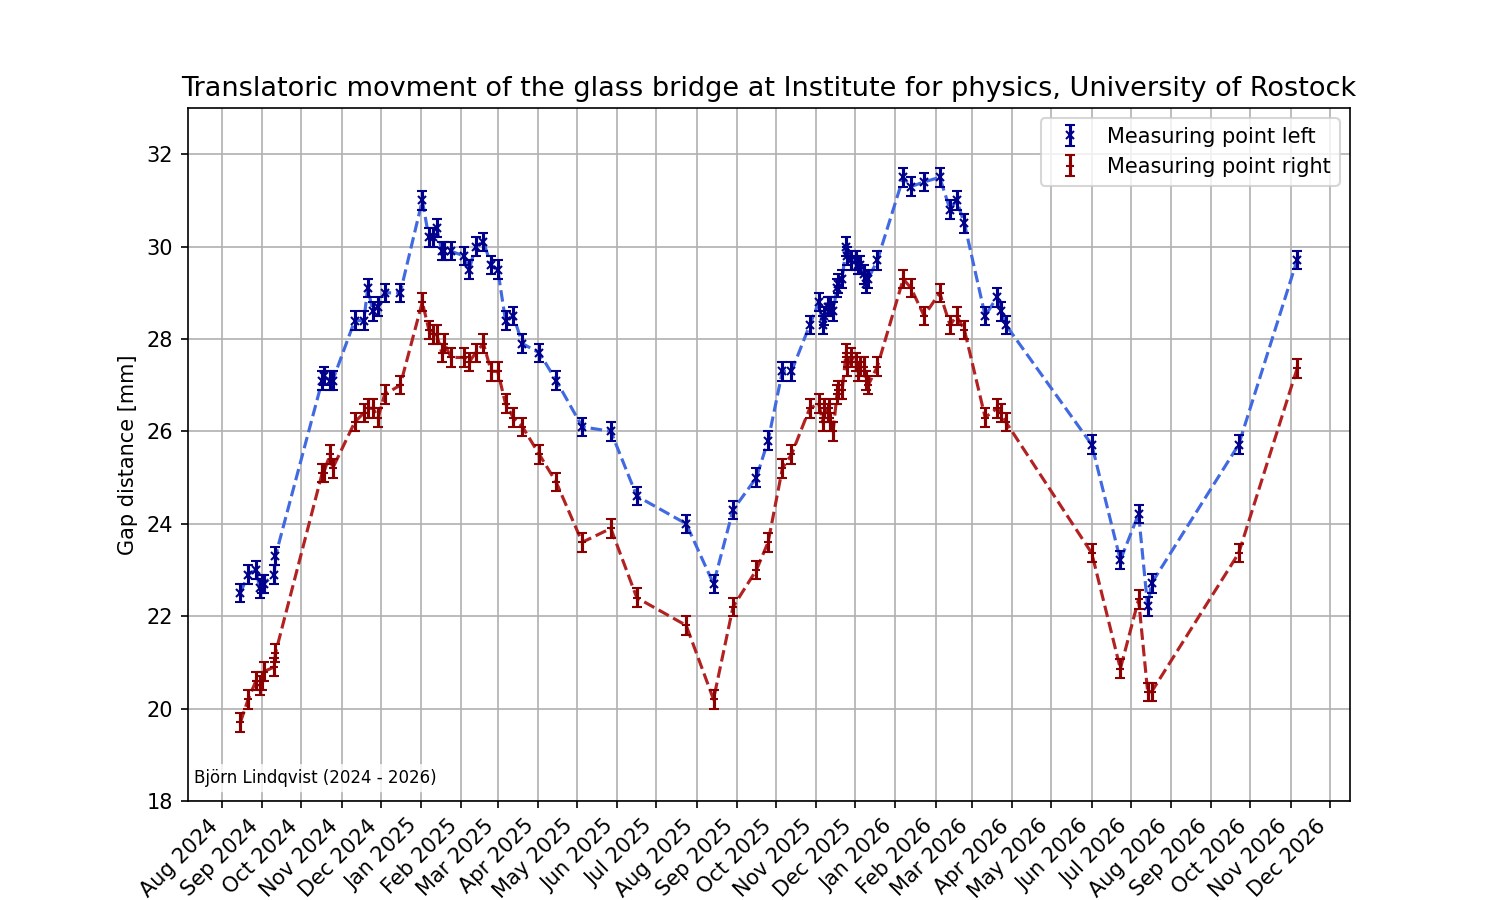
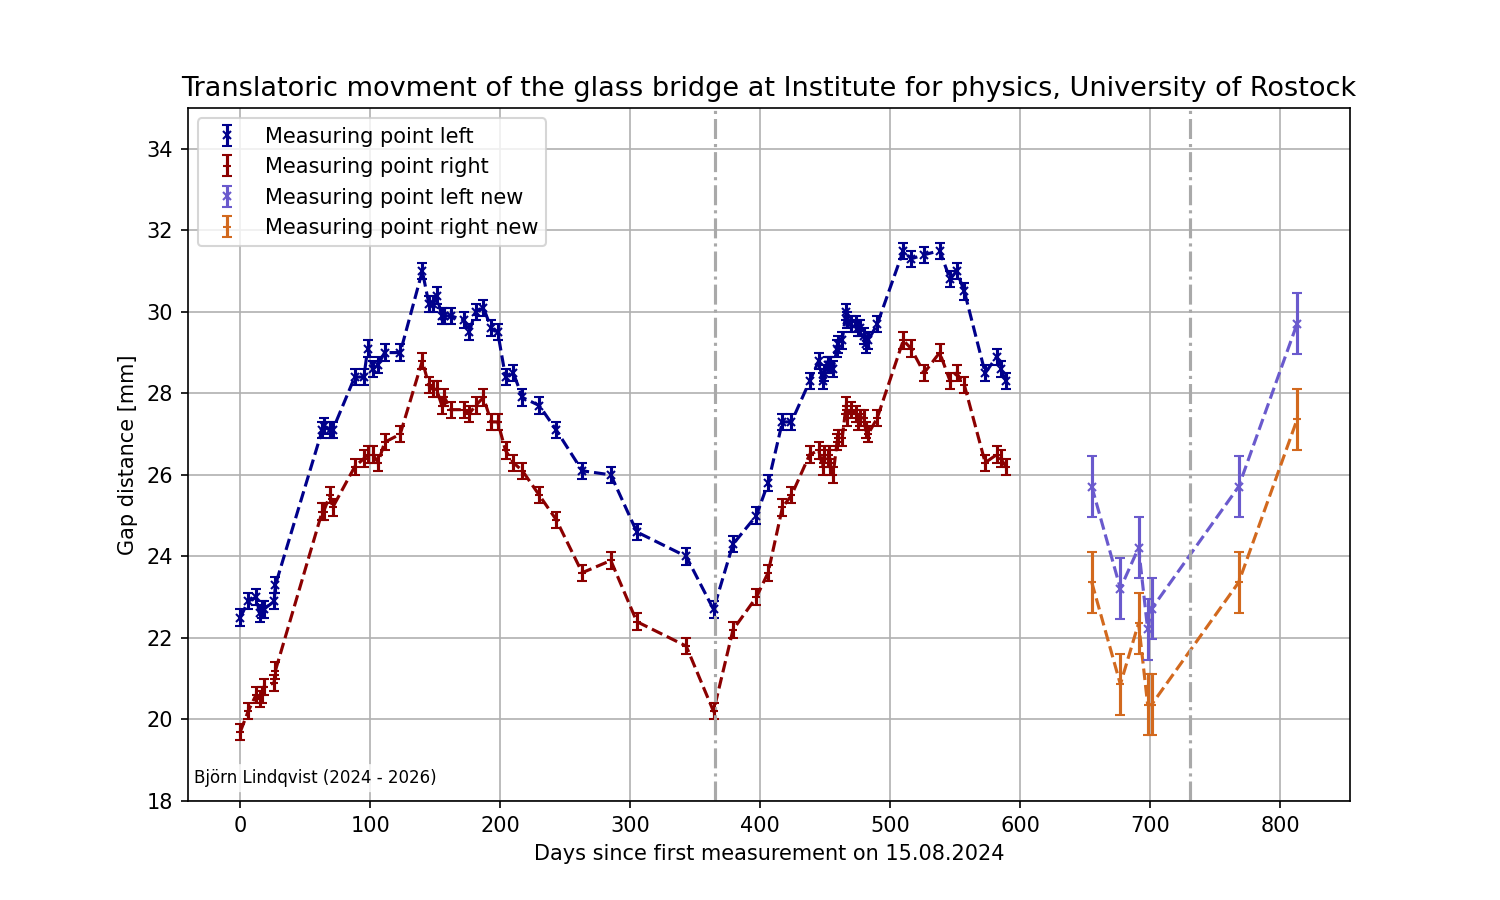
improved plot functions
- plot functions show new data in other colors to have more clearnes which data are new
- errorbars of new data are adjusted
- old function for Temp/Gap which is not flip, deleted
- minor code improvments

Changed region(s): [[0.092, 0.1244, 0.8893, 0.9956]]

diff --git a/Glasbruecke_Spalt_Main/plot_functions.py b/Glasbruecke_Spalt_Main/plot_functions.py
@@ -9,23 +9,30 @@ import numpy as np
 import matplotlib.pyplot as plt
 import matplotlib.dates as mdates
 
-def plot_time_gap(folder, time, D1, D2, delta_D, xlabel, year_start, year_end, time_style):
+def plot_time_gap(folder, time, D1, D2, D3, D4, delta_D, xlabel, year_start, year_end, time_style):
     FS = 10
     plt.figure(figsize=(10,6)) #(10,6)
     plt.grid(True)
-    plt.plot(time, D1, linestyle='--', linewidth=1.5, color='royalblue')
-    plt.plot(time, D2, linestyle='--', linewidth=1.5, color='firebrick')
+    plt.plot(time, D1, linestyle='--', linewidth=1.5, color='darkblue')
+    plt.plot(time, D2, linestyle='--', linewidth=1.5, color='darkred')
+    plt.plot(time, D3, linestyle='--', linewidth=1.5, color='slateblue')
+    plt.plot(time, D4, linestyle='--', linewidth=1.5, color='chocolate')
     plt.errorbar(time, D1, yerr=delta_D, marker='x', linestyle='None', color='darkblue', markersize=4, markeredgewidth=1, capsize=2.5, label='Measuring point left')
     plt.errorbar(time, D2, yerr=delta_D, marker='+', linestyle='None', color='darkred', markersize=4, markeredgewidth=1, capsize=2.5, label='Measuring point right')
+    plt.errorbar(time, D3, yerr=delta_D, marker='x', linestyle='None', color='slateblue', markersize=4, markeredgewidth=1, capsize=2.5, label='Measuring point left new')
+    plt.errorbar(time, D4, yerr=delta_D, marker='+', linestyle='None', color='chocolate', markersize=4, markeredgewidth=1, capsize=2.5, label='Measuring point right new')
     if time_style == 'days':
-        plt.axvline(x=365, label='1. year')
-    else:
+        for i in range(1, int(1000 // 365.25) + 1):
+            plt.axvline(x=365.25*i,linestyle='-.', color='darkgray')
+    elif time_style == 'time':
         plt.gca().xaxis.set_major_locator(mdates.MonthLocator())
         plt.gca().xaxis.set_major_formatter(mdates.DateFormatter('%b %Y'))
         plt.xticks(rotation=45, ha='right')
+    else: 
+        print('Wrong time_key!')
     plt.tick_params(axis='x', which='both', labelsize=FS)
     plt.tick_params(axis='y', which='both', labelsize=FS)
-    plt.ylim([18,33])
+    plt.ylim([18,35])
     plt.xlabel(xlabel, fontsize=FS)
     plt.ylabel('Gap distance [mm]', fontsize=FS)
     plt.title('Translatoric movment of the glass bridge at Institute for physics, University of Rostock', fontsize=1.3*FS)
@@ -36,19 +43,25 @@ def plot_time_gap(folder, time, D1, D2, delta_D, xlabel, year_start, year_end, t
     return None
 
 #%% sheerment over the year
-def plot_sheer(folder, time, D1, D2, delta_D, xlabel, year_start, year_end, time_style):
-    sheer = D1-D2
+def plot_sheer(folder, time, D1, D2, D3, D4, delta_D, xlabel, year_start, year_end, time_style):
+    sheer12 = D1-D2
+    sheer34 = D3-D4
     delta_sheer = delta_D + delta_D
+    
     FS = 10
     plt.figure(figsize=(10,6)) #(10,6)
     plt.grid(True)
-    plt.errorbar(time, sheer, yerr=delta_sheer, marker='+', linestyle='--', linewidth=1.5, color='green', markersize=9, markeredgewidth=2.5, capsize=5)
+    plt.errorbar(time, sheer12, yerr=delta_sheer, marker='+', linestyle='--', linewidth=1.5, color='darkgreen', markersize=9, markeredgewidth=2.5, capsize=5, label='old data')
+    plt.errorbar(time, sheer34, yerr=delta_sheer, marker='+', linestyle='--', linewidth=1.5, color='limegreen', markersize=9, markeredgewidth=2.5, capsize=5, label='new data')
     if time_style == 'days':
-        plt.axvline(x=365, label='1. year')
-    else:
+        for i in range(1, int(1000 // 365.25) + 1):
+            plt.axvline(x=365.25*i, linestyle='-.', color='darkgray')
+    elif time_style == 'time':
         plt.gca().xaxis.set_major_locator(mdates.MonthLocator())
         plt.gca().xaxis.set_major_formatter(mdates.DateFormatter('%b %Y'))
         plt.xticks(rotation=45, ha='right')
+    else: 
+        print('Wrong time_key!')
     plt.tick_params(axis='x', which='both', labelsize=FS)
     plt.tick_params(axis='y', which='both', labelsize=FS)
     plt.xlabel(xlabel, fontsize=FS)
@@ -56,34 +69,14 @@ def plot_sheer(folder, time, D1, D2, delta_D, xlabel, year_start, year_end, time
     plt.ylim([0, 1.5*np.nanmax(D1-D2)])
     plt.title('Sheer movment of the glass bridge at Institute for physics, University of Rostock', fontsize=1.3*FS)
     plt.text(0.11, 0.02, f'Björn Lindqvist ({year_start} - {year_end})', fontsize=0.8*FS, ha='center', va='bottom', transform=plt.gca().transAxes, bbox=dict(facecolor='white', edgecolor='none', alpha=0.8, boxstyle='round,pad=0.3'))
+    plt.legend(fontsize=FS)
     plt.savefig(f'{folder}/Sheerment.png', dpi=150)
     plt.show()
     return None
 
 
 #%% temperature plot
-def plot_temperature_movement(folder, D1, T1, D2, T2, delta_D, delta_T, year_start, year_end):
-    ext_D = 0.05 #axis scaling in x-dir
-    ext_T = 0.10 #axis scaling in y-dir
-    
-    FS = 10
-    fig, ax = plt.subplots(figsize=(10, 6)) #(10,6)
-    gradient = np.linspace(0, 1, 256).reshape(-1, 1)
-    ax.imshow(gradient, extent=[(1-ext_D)*min(min(D1-delta_D), min(D2-delta_D)), (1+ext_D)*max(max(D1+delta_D), max(D2+delta_D)), (1-ext_T)*min(min(T1-delta_T), min(T2-delta_T)), (1+ext_T)*max(max(T1+delta_T), max(T2+delta_T))], aspect='auto', cmap='coolwarm_r', alpha=0.7)
-    plt.errorbar(D1, T1, yerr=delta_T, xerr=delta_D, marker='o', linestyle='', linewidth=1.5, color='navy', markersize=5, markeredgewidth=1.5, capsize=5, label='Measuring point left')
-    plt.errorbar(D2, T2, yerr=delta_T, xerr=delta_D, marker='v', linestyle='', linewidth=1.5, color='firebrick', markersize=5, markeredgewidth=1.5, capsize=5, label='Measuring point right')
-    plt.tick_params(axis='x', which='both', labelsize=FS)
-    plt.tick_params(axis='y', which='both', labelsize=FS)
-    plt.xlabel('Gap distance [mm]', fontsize=FS)  # X-axis label changed to Gap distance
-    plt.ylabel('Temperature [°C]', fontsize=FS)  # Y-axis label changed to Temperature
-    plt.title('Temperature dependency for the translatoric movement of the glass bridge \n Institute for Physics, University of Rostock', fontsize=1.3*FS)
-    plt.text(0.11, 0.02, f'Björn Lindqvist ({year_start} - {year_end})', fontsize=0.8*FS, ha='center', va='bottom', transform=plt.gca().transAxes)
-    plt.legend(fontsize=FS)
-    plt.savefig(f'{folder}/Temperature_movment.png', dpi=150)
-    plt.show()
-    return 
-
-def plot_temperature_movement_flip(folder, D1, T1, D2, T2, delta_D, delta_T, year_start, year_end):
+def plot_temperature_movement(folder, T1, T2, D1, D2, D3, D4, delta_T, delta_D, year_start, year_end):
     ext_D = 0.05 #axis scaling in x-dir
     ext_T = 0.10 #axis scaling in y-dir
 
@@ -91,8 +84,10 @@ def plot_temperature_movement_flip(folder, D1, T1, D2, T2, delta_D, delta_T, yea
     fig, ax = plt.subplots(figsize=(10, 6)) #(10,6)
     gradient = np.linspace(1, 0, 256).reshape(1, -1)
     ax.imshow(gradient, extent=[(1-ext_T)*min(min(T1-delta_T), min(T2-delta_T)), (1+ext_T)*max(max(T1+delta_T), max(T2+delta_T)), (1-ext_D)*min(min(D1-delta_D), min(D2-delta_D)), (1+ext_D)*max(max(D1+delta_D), max(D2+delta_D))], aspect='auto', cmap='coolwarm_r', alpha=0.7)
-    plt.errorbar(T1, D1, xerr=delta_T, yerr=delta_D, marker='o', linestyle='', linewidth=1.5, color='navy', markersize=5, markeredgewidth=1.5, capsize=5, label='Measuring point left')
-    plt.errorbar(T2, D2, xerr=delta_T, yerr=delta_D, marker='v', linestyle='', linewidth=1.5, color='firebrick', markersize=5, markeredgewidth=1.5, capsize=5, label='Measuring point right')
+    plt.errorbar(T1, D1, xerr=delta_T, yerr=delta_D, marker='o', linestyle='', linewidth=1.5, color='darkblue', markersize=5, markeredgewidth=1.5, capsize=5, label='Measuring point left')
+    plt.errorbar(T2, D2, xerr=delta_T, yerr=delta_D, marker='v', linestyle='', linewidth=1.5, color='darkred', markersize=5, markeredgewidth=1.5, capsize=5, label='Measuring point right')
+    plt.errorbar(T1, D3, xerr=delta_T, yerr=delta_D, marker='o', linestyle='', linewidth=1.5, color='slateblue', markersize=5, markeredgewidth=1.5, capsize=5, label='Measuring point left new')
+    plt.errorbar(T2, D4, xerr=delta_T, yerr=delta_D, marker='v', linestyle='', linewidth=1.5, color='chocolate', markersize=5, markeredgewidth=1.5, capsize=5, label='Measuring point right new')
     plt.tick_params(axis='x', which='both', labelsize=FS)
     plt.tick_params(axis='y', which='both', labelsize=FS)
     plt.xlabel('Temperature [°C]', fontsize=FS)

diff --git a/Glasbruecke_Spalt_Main/Glasbruecke_main_code_modified.py b/Glasbruecke_Spalt_Main/Glasbruecke_main_code_modified.py
@@ -23,8 +23,7 @@ D1 = df['D1/mm'].to_numpy()
 D2 = df['D2/mm'].to_numpy()
 D3 = df["D3/cm"].to_numpy()*10 #mm
 D4 = df["D4/cm"].to_numpy()*10 #mm
-
-D1, D2 = mod_fun.new_measurmentpoint_modifier(T1, T2, D1, D2, D3, D4)
+D3, D4 = mod_fun.new_measurmentpoint_modifier(T1, T2, D1, D2, D3, D4)
 
 delta_T = df['dT_i/K'].to_numpy()
 delta_D = df['dD_i/mm'].to_numpy()
@@ -32,7 +31,7 @@ delta_D = df['dD_i/mm'].to_numpy()
 
 year_start = '2024' #only text
 year_end = '2026' #only text
-time_style = 'time' #time (days) or Date (date)
+time_style = 'days' #time (days) or Date (date)
 
 if time_style == 'days':
     time = Days
@@ -49,15 +48,15 @@ os.makedirs(folder, exist_ok=True)
 
 #%% movment over the year
 print('INFO: plot time-gap')
-fun.plot_time_gap(folder, time, D1, D2, delta_D, xlabel, year_start=year_start, year_end=year_end, time_style=time_style)
+fun.plot_time_gap(folder, time, D1, D2, D3, D4, delta_D, xlabel, year_start=year_start, year_end=year_end, time_style=time_style)
 
 #%% sheerment over the year
 print('INFO: plot time-sheer')
-fun.plot_sheer(folder, time, D1, D2, delta_D, xlabel, year_start=year_start, year_end=year_end, time_style=time_style)
+fun.plot_sheer(folder, time, D1, D2, D3, D4, delta_D, xlabel, year_start=year_start, year_end=year_end, time_style=time_style)
 
 #%% temperature plot
 print('INFO: plot temp-gap')
-fun.plot_temperature_movement_flip(folder, D1, T1, D2, T2, delta_D, delta_T, year_start=year_start, year_end=year_end)
+fun.plot_temperature_movement(folder, T1, T2, D1, D2, D3, D4, delta_T, delta_D, year_start=year_start, year_end=year_end)
 
 print('Exitcode 0')
 

diff --git a/Glasbruecke_Spalt_Main/modify_functions.py b/Glasbruecke_Spalt_Main/modify_functions.py
@@ -80,7 +80,8 @@ def new_measurmentpoint_modifier(T1, T2, D1, D2, D3, D4, debug_plot_tick=False):
     if debug_plot_tick: 
         debug_plot_linear_fits(T1, T2, D1, D2, D3, D4, a1, a2, a3, a4, b1, b2, b3, b4, main_shift, pos_shift)
     
-    return D_new1, D_new2
+    return D3 - main_shift, D4 - main_shift - pos_shift
+    # return D_new1, D_new2
 
 
 
